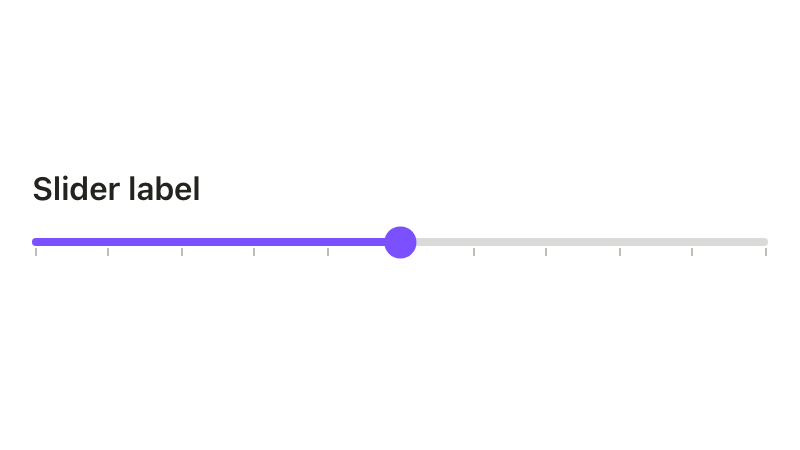
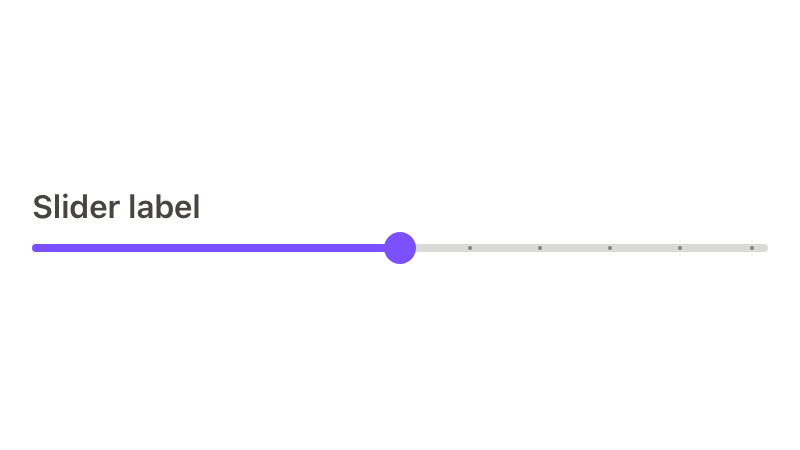
fix(slider): DLT-1974 close the tooltip readout on Escape
DtTooltip already does this (onLeaveAnchor), so the slider should
match. Escape suppresses the readout for that thumb without blurring
it, so arrow-key nav keeps working; the next genuine focus/hover/drag
trigger on that thumb clears the suppression and lets it reopen,
mirroring DtTooltip's own internalShow = false / re-trigger behavior.

Changed region(s): [[0.0312, 0.4978, 0.9688, 0.5911], [0.0312, 0.3733, 0.25, 0.4978]]

diff --git a/packages/dialtone-vue/components/Slider/Composables/UseSliderInteraction.js b/packages/dialtone-vue/components/Slider/Composables/UseSliderInteraction.js
@@ -25,6 +25,13 @@ export function useSliderInteraction(props, emit, {
   const lastActiveThumbIndex = ref(null);
   const focusedThumbIndex = ref(null);
   const hoveredThumbIndex = ref(null);
+  // Escape's job is "suppress until the next real show-trigger", not "turn
+  // off forever" — DtTooltip's own onLeaveAnchor does the same thing
+  // (internalShow = false, reopens on the next mouseenter/focusin). Reusing
+  // focused/hoveredThumbIndex for this would force Escape to blur the thumb
+  // to take effect, losing further keyboard nav — so it's tracked separately
+  // and cleared by whichever handler fires on the next genuine trigger.
+  const escapeDismissedIndex = ref(null);
   // Not reactive on purpose: set synchronously right before a pointer-driven
   // focus() call and read/cleared synchronously in the 'focus' handler it
   // triggers, within the same task. See onPointerDown.
@@ -279,6 +286,7 @@ export function useSliderInteraction(props, emit, {
     const [lo, hi] = internalValues.value;
     dragStartedCoincident = isRange.value && internalValues.value.length === 2 && lo === hi;
 
+    if (escapeDismissedIndex.value === idx) escapeDismissedIndex.value = null;
     activeThumbIndex.value = idx;
     lastActiveThumbIndex.value = idx;
     isDragging.value = true;
@@ -345,6 +353,7 @@ export function useSliderInteraction(props, emit, {
       // there stale, read as "actively held" by UseSliderValue's watchers
       // long after the handoff moved on.
       delete activeSnapValue.value[activeThumbIndex.value];
+      if (escapeDismissedIndex.value === idx) escapeDismissedIndex.value = null;
       activeThumbIndex.value = idx;
       lastActiveThumbIndex.value = idx;
     }
@@ -434,6 +443,11 @@ export function useSliderInteraction(props, emit, {
       event.preventDefault();
       updateThumbValue(i, internalValues.value[i] + delta * largeStepValue());
     }
+    // Matches DtTooltip's own Escape handling: dismiss without moving focus,
+    // so arrow-key nav on this thumb still works afterward.
+    if (event.key === 'Escape') {
+      escapeDismissedIndex.value = i;
+    }
     // Plain arrow keys, Home, End handled natively by <input type="range">
     // (also RTL-aware natively, so no extra handling needed here).
   }
@@ -446,6 +460,7 @@ export function useSliderInteraction(props, emit, {
     if (isPointerFocus) {
       isPointerFocus = false;
     } else {
+      if (escapeDismissedIndex.value === i) escapeDismissedIndex.value = null;
       focusedThumbIndex.value = i;
     }
     emit('focus', event);
@@ -458,6 +473,7 @@ export function useSliderInteraction(props, emit, {
   }
 
   function onThumbHitPointerEnter(i) {
+    if (escapeDismissedIndex.value === i) escapeDismissedIndex.value = null;
     hoveredThumbIndex.value = i;
   }
 
@@ -467,6 +483,7 @@ export function useSliderInteraction(props, emit, {
 
   function isReadoutOpen(i) {
     if (props.readout === 'always') return true;
+    if (escapeDismissedIndex.value === i) return false;
     return activeThumbIndex.value === i || focusedThumbIndex.value === i || hoveredThumbIndex.value === i;
   }
 

diff --git a/packages/dialtone-vue/components/Slider/Slider.test.js b/packages/dialtone-vue/components/Slider/Slider.test.js
@@ -346,18 +346,18 @@ describe('DtSlider Tests', () => {
         expect(readouts()[0].text()).toBe('50 units');
       });
 
-      it('does not edge-clamp near min/max, unlike the tooltip readout — pins documented current behavior', async () => {
-        // markStyle is called here without an index (see Slider.vue's
-        // template), so markEdgeOffsetPx never applies — a known limitation
-        // noted on the readout prop's own JSDoc, same as showMarks's.
-        // Centering itself comes from .d-slider__readout's own CSS
-        // transform, not an inline style, so the absence of an inline
-        // transform here IS the "no nudge applied" signal.
+      it('anchors onto the thumb\'s own inset band at the edges, not a flush track percentage', async () => {
+        // Anchored (UseSliderGeometry's anchorPct), same band the thumb
+        // itself renders on — otherwise this pill would sit up to a full
+        // --slider-edge-inset away from the thumb it's meant to track,
+        // worst-case right at min/max. Centering itself still comes from
+        // .d-slider__readout's own CSS transform, not an inline style, so
+        // the absence of an inline transform here is expected, not a gap.
         mockProps = { readout: 'always', modelValue: 100 };
         updateWrapper();
         await nextTick();
         const style = readouts()[0].attributes('style');
-        expect(style).toContain('inset-inline-start: 100%');
+        expect(style).toContain('inset-inline-start: calc(var(--slider-edge-inset) + (100% - var(--slider-edge-inset) * 2) * 1)');
         expect(style).not.toContain('transform');
       });
     });
@@ -372,6 +372,24 @@ describe('DtSlider Tests', () => {
         expect(tooltip.matches(':popover-open')).toBe(true);
         await thumbInputs[0].trigger('blur');
         expect(tooltip.matches(':popover-open')).toBe(false);
+      });
+
+      it('closes on Escape while keeping focus, matching DtTooltip\'s own Escape handling', async () => {
+        const tooltip = tooltipReadouts()[0].element;
+        await thumbInputs[0].trigger('focus');
+        expect(tooltip.matches(':popover-open')).toBe(true);
+        await thumbInputs[0].trigger('keydown', { key: 'Escape' });
+        expect(tooltip.matches(':popover-open')).toBe(false);
+      });
+
+      it('reopens on the next hover after an Escape dismissal, without needing to refocus', async () => {
+        const hitTarget = wrapper.find('[data-qa="dt-slider-thumb-hit"]');
+        const tooltip = tooltipReadouts()[0].element;
+        await thumbInputs[0].trigger('focus');
+        await thumbInputs[0].trigger('keydown', { key: 'Escape' });
+        expect(tooltip.matches(':popover-open')).toBe(false);
+        await hitTarget.trigger('pointerenter');
+        expect(tooltip.matches(':popover-open')).toBe(true);
       });
 
       it('does not open while disabled, even when its thumb is hovered', async () => {
